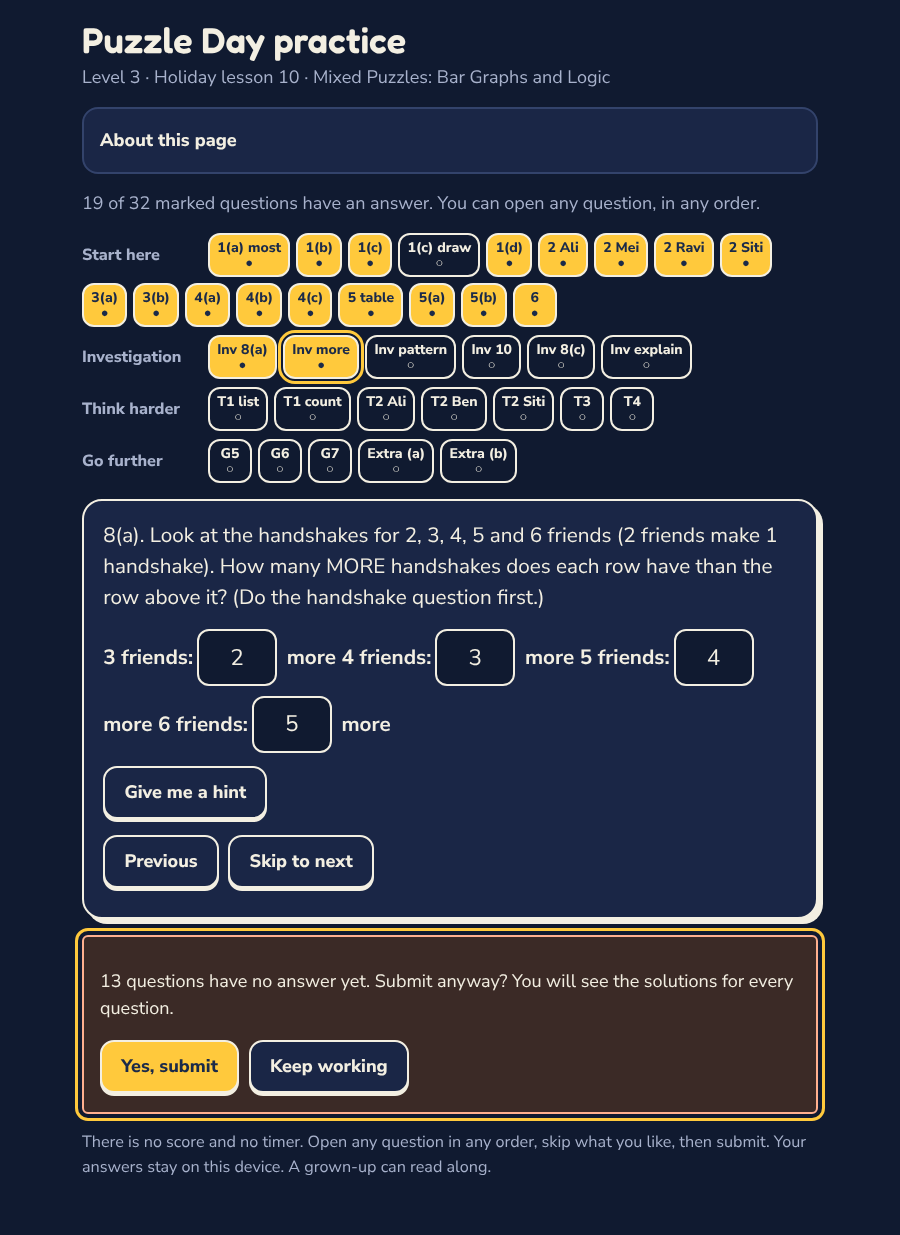
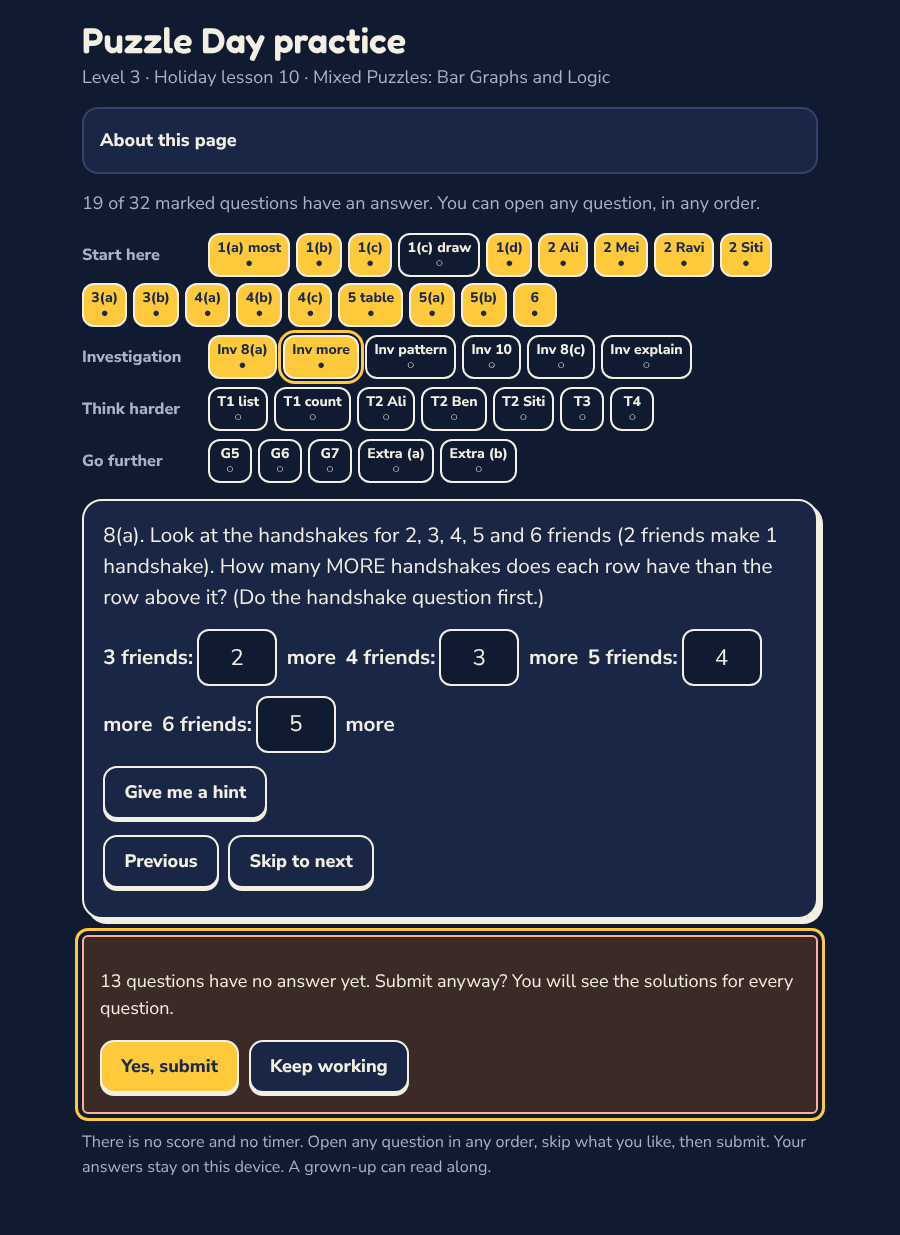
Holiday L3 week 5 (lessons 9, 10): Measure and Money Masters and Puzzle Day online practice, checkers, variants, tests, STATUS
Claude-Session: https://claude.ai/code/session_01Wmstm4fTDLXm5Z35vo5Mv2

diff --git a/practice/holiday/p3/09/lesson.py b/practice/holiday/p3/09/lesson.py
@@ -211,7 +211,7 @@ ITEMS = [
       hint='Jump from 3:45 pm to 4:00. How many minutes is that? Then jump to 5:00, then to 5:10.',
       steps=['3:45 pm to 4:00 pm is 15 minutes.', '4:00 pm to 5:00 pm is 1 hour.', '5:00 pm to 5:10 pm is 10 minutes.', '15 min + 1 h + 10 min = 1 h 25 min.'],
       src=['Ali’s swimming lesson starts at 3:45 pm and ends at 5:10 pm. How long is it?']),
-    I(id='5b', tier='core', no='5(b)', label='5(b)', type='fields', skill='time lines and end times', answer=[5, 25], frame='It ends at {f1}:{f2} pm.',
+    I(id='5b', tier='core', no='5(b)', label='5(b)', type='fields', skill='time lines and end times', answer=[5, 25], frame='Ends at {f1}:{f2} pm',
       svg=time_line(983, 1057, [(pm(4, 35), '4:35 pm', 0), (pm(5, 0), '5:00', 0), (pm(5, 25), '?', 0)], [(pm(4, 35), pm(5, 0), '? min'), (pm(5, 0), pm(5, 25), '? min')],
                     label='A time line starting at 4:35 pm with 5:00 marked and a question mark at the end of the lesson'),
       q='Mei’s piano lesson starts at 4:35 pm and lasts 50 minutes. When does it end? Type the time.',
@@ -219,7 +219,7 @@ ITEMS = [
       hint='Jump from 4:35 pm to 5:00. How many minutes is that? How many of the 50 minutes are left?',
       steps=['4:35 pm to 5:00 pm is 25 minutes.', '50 - 25 = 25 minutes are left to jump.', '5:00 pm + 25 minutes = 5:25 pm. The lesson ends at 5:25 pm.'],
       src=['Mei’s piano lesson starts at 4:35 pm and lasts 50 minutes. When does it end?']),
-    I(id='5c', tier='core', no='5(c)', label='5(c)', type='fields', skill='time lines and start times', answer=[7, 25], frame='It started at {f1}:{f2} pm.',
+    I(id='5c', tier='core', no='5(c)', label='5(c)', type='fields', skill='time lines and start times', answer=[7, 25], frame='Started at {f1}:{f2} pm',
       svg=time_line(1128, 1290, [(pm(7, 0), '7:00', 0), (pm(8, 0), '8:00', 0), (pm(9, 0), '9:00', 0), (pm(9, 15), '9:15 pm', 1)], [(pm(9, 0), pm(9, 15), '? min')],
                     label='A time line ending at 9:15 pm with 7:00, 8:00 and 9:00 marked'),
       q='A film lasts 1 h 50 min. It ends at 9:15 pm. When did it start? Type the time.',
@@ -235,7 +235,7 @@ ITEMS = [
       hint='Add 25 minutes each time. It can help to jump to the next o\u2019clock first, then add the minutes that are left.',
       steps=['06:40 + 25 minutes = 07:05 (the 2nd bus).', '07:05 + 25 = 07:30, then 07:30 + 25 = 07:55, then 07:55 + 25 = 08:20, then 08:20 + 25 = 08:45.', 'The buses are at 06:40, 07:05, 07:30, 07:55, 08:20 and 08:45.'],
       src=['Buses leave the interchange every 25 minutes. The first bus leaves at 06:40.']),
-    I(id='6a-next', tier='core', no='6(a)', label='6(a) next', type='fields', skill='time lines and timetables', answer=[8, 20], frame='The next bus is at {f1}:{f2}.',
+    I(id='6a-next', tier='core', no='6(a)', label='6(a) next', type='fields', skill='time lines and timetables', answer=[8, 20], frame='Next bus at {f1}:{f2}',
       svg=time_line(385, 540, [(BUSES[0], '06:40', 0), (RAVI, '08:15', 0)], [], minor=BUSES[1:], marks=[(RAVI, 'Ravi arrives')], label='A time line from 06:40 with a mark every 25 minutes for the buses and Ravi arriving at 08:15'),
       q='Buses leave the interchange every 25 minutes. The first bus leaves at 06:40. Ravi reaches the interchange at 08:15. When is the next bus?',
       check=lambda: [next_bus(RAVI) // 60, next_bus(RAVI) % 60],
@@ -248,7 +248,7 @@ ITEMS = [
       hint='Find the next bus time first. How many minutes is it after 08:15?',
       steps=['The next bus after 08:15 is at 08:20.', '08:15 to 08:20 is 5 minutes.', 'Ravi waits 5 minutes.'],
       src=['Ravi reaches the interchange at 08:15. When is the next bus? How long does he wait?']),
-    I(id='6b', tier='core', no='6(b)', label='6(b)', type='fields', skill='time lines and timetables', answer=[8, 55], frame='He reaches school at {f1}:{f2}.',
+    I(id='6b', tier='core', no='6(b)', label='6(b)', type='fields', skill='time lines and timetables', answer=[8, 55], frame='Reaches school at {f1}:{f2}',
       q='Ravi takes the next bus after 08:15. The bus ride to school takes 35 minutes. When does Ravi reach school? (The buses leave every 25 minutes from 06:40.)',
       check=lambda: [(next_bus(RAVI) + 35) // 60, (next_bus(RAVI) + 35) % 60],
       hint='Find the bus Ravi takes first. Then jump 35 minutes: to the next o’clock, then the minutes that are left.',
@@ -256,7 +256,7 @@ ITEMS = [
       src=['The bus ride to school takes 35 minutes. When does Ravi reach school?']),
 
     # ================= Investigation (Investigation and look back page, No.8: Find all the ways to pay)
-    I(id='I8-swap', tier='invest', no='8 easy step', label='Inv easy', type='fields', skill='making a list in order', answer=[2, 4], frame=grp('One 10-cent coin = {f1} five-cent coins      One 20-cent coin = {f2} five-cent coins'),
+    I(id='I8-swap', tier='invest', no='8 (easy step)', label='Inv easy', type='fields', skill='making a list in order', answer=[2, 4], frame='10¢ = {f1} five-cent coins      20¢ = {f2} five-cent coins',
       q='Ali can swap some five-cent coins for bigger coins. How many five-cent coins is one 10-cent coin worth? How many is one 20-cent coin worth?',
       check=lambda: [count_in(10, 5)[0], count_in(20, 5)[0]],
       hint='Count in 5s up to 10, then up to 20.',
@@ -270,7 +270,7 @@ ITEMS = [
       steps=['Go in order: first fix the number of 20-cent coins (two, then one, then none), then the number of 10-cent coins, then fill up with 5-cent coins.', 'The same coins in a different order are the same way.', 'There are 12 ways. They are shown in the table (20-cent, 10-cent, 5-cent): 2, 1, 0; 2, 0, 2; 1, 3, 0; 1, 2, 2; 1, 1, 4; 1, 0, 6; 0, 5, 0; 0, 4, 2; 0, 3, 4; 0, 2, 6; 0, 1, 8; 0, 0, 10.'],
       src=['Ali pays exactly 50 cents using only 5-cent, 10-cent and 20-cent coins. He can use as many of each coin as he likes.', 'Find all the ways. Write each way in the table (how many of each coin).']),
     I(id='I8a-sort', tier='invest', no='8(a)', label='Inv sort', type='fields', skill='making a list in order', answer=[2, 4, 6],
-      frame=grp('Two 20-cent coins: {f1} ways      One 20-cent coin: {f2} ways      No 20-cent coins: {f3} ways'),
+      frame='Two 20-cent coins: {f1} ways      One 20-cent coin: {f2} ways      No 20-cent coins: {f3} ways',
       q='Ali pays exactly 50 cents using only 5-cent, 10-cent and 20-cent coins. Sort the ways by how many 20-cent coins he uses. How many ways use two 20-cent coins? One? None? (Do the list question first.)',
       check=lambda: [len([w for w in ways_50() if w[0] == k]) for k in (2, 1, 0)],
       hint='Take two 20-cent coins first. How much is left to pay? Then try one 20-cent coin, then none.',
@@ -322,7 +322,7 @@ ITEMS = [
       hint='Change 1 kg 50 g to grams. Take the box away. Then share what is left between the 4 books.',
       steps=['1 kg 50 g = 1050 g.', 'Take the empty box away: 1050 - 250 = 800 g for the 4 books.', '800 ÷ 4 = 200, so one book weighs 200 g.'],
       src=['A box with 4 books weighs 1 kg 50 g. The empty box weighs 250 g. All the books weigh the same. How heavy is one book?']),
-    I(id='T4', tier='stretch', no='T4', label='T4', type='fields', skill='time and timetables', answer=[7, 55], frame='The bus leaves at {f1}:{f2}.',
+    I(id='T4', tier='stretch', no='T4', label='T4', type='fields', skill='time and timetables', answer=[7, 55], frame='Bus leaves at {f1}:{f2}',
       q='Buses leave the interchange every 25 minutes. The first bus leaves at 06:40. The ride to school takes 35 minutes. Ravi must reach school by 08:30. Which is the latest bus he can take? Type the time it leaves.',
       check=lambda: [latest_bus(35, mins(8, 30)) // 60, latest_bus(35, mins(8, 30)) % 60],
       hint='List the bus times, 25 minutes apart. Add 35 minutes to each one. Which is the last that gets him there by 08:30?',
@@ -442,14 +442,14 @@ VARIANTS = {
     '5b': dict(
         base=dict(sh=4, sm=35, dm=50),
         tpl=dict(vars=dict(sh=[2, 3, 4, 5], sm=[15, 20, 35, 40, 50], dm=[40, 45, 50, 55, 65, 70]),
-                 q='A piano lesson starts at {sh}:{sm} pm and lasts {dm} minutes. When does it end? Type the time.', frame='It ends at {f1}:{f2} pm.', answers=dict(f1='(sh*60+sm+dm)//60', f2='(sh*60+sm+dm)%60'),
+                 q='A piano lesson starts at {sh}:{sm} pm and lasts {dm} minutes. When does it end? Type the time.', frame='Ends at {f1}:{f2} pm', answers=dict(f1='(sh*60+sm+dm)//60', f2='(sh*60+sm+dm)%60'),
                  hint='Jump from {sh}:{sm} pm to the next o’clock. How many of the {dm} minutes are left after that?',
                  steps=['Jump to the next o’clock first.', 'Then jump the minutes that are left.', 'The lesson ends at {ans} (hours, then minutes) pm.'], paper=True),
         oracle=lambda e: _hm_fields(pm(e['sh'], e['sm']) + e['dm'] - 12 * 60)),
     '5c': dict(
         base=dict(eh=9, em=15, dh=1, dm=50),
         tpl=dict(vars=dict(eh=[8, 9, 10], em=[15, 20, 35, 40, 45], dh=[1, 2], dm=[20, 35, 50, 55]),
-                 q='A film lasts {dh} h {dm} min. It ends at {eh}:{em} pm. When did it start? Type the time.', frame='It started at {f1}:{f2} pm.', answers=dict(f1='(eh*60+em-dh*60-dm)//60', f2='(eh*60+em-dh*60-dm)%60'),
+                 q='A film lasts {dh} h {dm} min. It ends at {eh}:{em} pm. When did it start? Type the time.', frame='Started at {f1}:{f2} pm', answers=dict(f1='(eh*60+em-dh*60-dm)//60', f2='(eh*60+em-dh*60-dm)%60'),
                  hint='Jump back from {eh}:{em} pm to the o’clock. How much of the {dh} h {dm} min is still left to go back?',
                  steps=['Jump back to the o’clock first, then back the whole hours, then the minutes that are left.', 'Check by counting on from the start.', 'The film started at {ans} (hours, then minutes) pm.'], paper=True),
         oracle=lambda e: _hm_fields(pm(e['eh'], e['em']) - e['dh'] * 60 - e['dm'] - 12 * 60)),

diff --git a/practice/holiday/p3/10/lesson.py b/practice/holiday/p3/10/lesson.py
@@ -234,7 +234,7 @@ ITEMS = [
       steps=['The numbers are 258, 285, 528, 582, 825 and 852.', 'Their distances from 600 are 342, 315, 72, 18, 225 and 252.', '582 is only 18 away from 600, so it is the closest.'],
       src=['Which number is closest to 600?']),
 
-    I(id='5-table', tier='core', no='5', label='5 table', type='fields', skill='patterns and tables', answer=[13, 16, 19], frame=grp('4 squares: {f1} sticks      5 squares: {f2} sticks      6 squares: {f3} sticks'), svg=sticks_fig(),
+    I(id='5-table', tier='core', no='5', label='5 table', type='fields', skill='patterns and tables', answer=[13, 16, 19], frame='4 squares: {f1} sticks      5 squares: {f2} sticks      6 squares: {f3} sticks', svg=sticks_fig(),
       sol_fig=lambda g: sticks_fig(solved=[4, 7, 10] + list(g)),
       q='Make a table! Squares are made in a row with sticks, like the picture. Fill in the table: how many sticks are needed for 4, 5 and 6 squares?', check=lambda: [sticks_row(n) for n in (4, 5, 6)],
       hint='Look at the sticks for 1, 2 and 3 squares. How many more sticks does each new square need?',
@@ -266,7 +266,7 @@ ITEMS = [
       steps=['Draw a dot for each friend and join every pair with a line: each line is a handshake.', '3 friends: 3 lines. 4 friends: 6 lines. 5 friends: 10 lines. 6 friends: 15 lines.', 'The numbers are 3, 6, 10 and 15.'],
       src=['Some friends meet. Everyone shakes hands with every other friend once. Two friends make 1 handshake.', 'Find the number of handshakes for 3, 4, 5 and 6 friends.']),
     I(id='I8a-more', tier='invest', no='8(a)', label='Inv more', type='fields', skill='patterns and tables', answer=[2, 3, 4, 5],
-      frame=grp('3 friends: {f1} more      4 friends: {f2} more      5 friends: {f3} more      6 friends: {f4} more'),
+      frame='3 friends: {f1} more      4 friends: {f2} more      5 friends: {f3} more      6 friends: {f4} more',
       q='Look at the handshakes for 2, 3, 4, 5 and 6 friends (2 friends make 1 handshake). How many MORE handshakes does each row have than the row above it? (Do the handshake question first.)',
       check=lambda: [friends_more(n) for n in (3, 4, 5, 6)],
       hint='Subtract each number of handshakes from the one below it.',

diff --git a/practice/holiday/p3/p3lib_w5.py b/practice/holiday/p3/p3lib_w5.py
@@ -281,7 +281,8 @@ def price_list_fig(items, label='Prices'):
     for i, (name, price) in enumerate(items):
         y = i * rh + 4
         pic = pics.get(name, '')
-        pic = re.sub(r'<svg[^>]*>', f'<svg x="8" y="{y + 3}" viewBox="0 0 48 48" width="32" height="32">', pic, count=1)
+        inner = re.sub(r'^<svg[^>]*>|</svg>$', '', pic.strip())          # the picture's shapes, drawn in a 48 x 48 box; a <g> (not a nested <svg>, which the page's CSS would resize)
+        pic = f'<g transform="translate(8 {y + 3}) scale({32 / 48:.4f})">{inner}</g>'
         body += pic + h.T(54, y + 26, name, 16, 'start', 800) + h.T(292, y + 26, price, 17, 'end', 800)
         body += h.Ln(4, y + rh - 3, 296, y + rh - 3, 1.2, '#C9D0E2')
     return h.svg(300, len(items) * rh + 6, body, label + ': ' + '; '.join(f'{n} {p}' for n, p in items))

diff --git a/practice/holiday/p3/STATUS.md b/practice/holiday/p3/STATUS.md
@@ -182,3 +182,41 @@ No stem, hint, example or figure shows another card's answer (Q5 hint of the pri
 1. Lesson 7 Q6 and Lesson 8 Q5 are drawing tasks on paper in print. Online they use lettered places / numbered lines (auto-marked); the real drawing stays paper-only. Fine?
 2. Same as earlier weeks: should the Investigation and Extra question be visible by default or behind "Want more?"
 3. Lesson 8 uses a paper right-angle checker against the phone screen. Acceptable, or add an on-screen checker later?
+
+
+# Level 3 (ages 8 to 10, key p3): online practice for holiday WEEK 5 (lessons 9 and 10)
+
+Week 5 = lessons 9 and 10, the last two lessons of the programme (`website/data/beta_schedule.json`: group L3A, Tue 22 Dec and Thu 24 Dec 2026, lessons n=9 and n=10, 25 Dec is a no-lesson day; `p3/content/l9.js` and `l10.js` also say `week: 5`, session A and B). Built and tested, NOT deployed; no website/dist, Supabase or sending. Shared files (sheet.js, submit/*, build_holiday.py, hlib.py, test_holiday.py) and earlier lessons were not edited; `practice/ext/test_ext.py` and the `practice/submit` tests still pass. Lesson 10 is the showcase lesson ("Puzzle Day"): it is mirrored as printed (bar graph, CCA logic grid, queues, digit cards, matchstick squares, a number riddle, handshakes); its paper tasks are self-check or open cards with a model answer.
+
+Build and test:
+
+    python3 practice/holiday/build_holiday.py p3 9      # -> practice/holiday/p3/09/dist   (git-ignored)
+    python3 practice/holiday/test_holiday.py p3 9       # Chromium, 390 and 900 px, light and dark; proofs in p3/09/proof
+    (same with 10)
+
+## Where the questions come from
+Same as weeks 1 to 4: `p3/workbook_html.js` builds the workbook from `p3/content/l9.js` and `l10.js` (Start here = `workbook(H)`, Think harder 1 to 4 = `qbank.stretch[0..3]`, Go further 5 to 7 = `qbank.challenge[-3:]`, Extra = `deck.takeHome`) and `p3/gifted.json` (Investigation). Items are in `p3/09/lesson.py` and `p3/10/lesson.py`; `build_holiday.py` fails unless every printed fragment occurs in those sources. Figures: `figs_p3_w5.js` prints the workbook's own figures (ribbon, 24-hour strip, time lines, bus line, bar models, queues, drinks graph, matchstick squares, digit cards, the five item pictures) from the generator functions; `p3lib_w5.py` redraws them larger for a 390 px phone (every text at least 12.5 px; no rotated text, no nested svg) and the lesson files assert that their data (the ribbon pieces, strip hours, time-line ticks, bus line, bar-model labels, queue positions, the four drinks bars at 4 px per cup, digit cards, the printed sticks table, the five prices, the printed clues) equals the printed figures. Pictures drawn that the print has none for: the Think harder 3 triangles in a row, the shared clue cards (see below).
+
+## Counts (every item has a hint, a worked solution, tags strand and skill)
+| Lesson | Items | Auto-marked | Self-check | Paper-only drawing | Types | Variant families (all combinations equal the oracle) |
+|---|---|---|---|---|---|---|
+| 9 Measure and Money Masters (length, mass, volume, money, time) | 42 | 37 | 5 (4 compare with a model answer, 1 make-up G7 open) | 0 | fields 16, number 12, text 7, selfcheck 5, choice 2 | 16 (832) |
+| 10 Puzzle Day (mixed puzzles: bar graphs and logic) | 36 | 32 | 4 (2 explain, 1 paper drawing of the Lime juice bar, 1 make-up G5 open) | 1 | number 14, choice 9, fields 5, set 3, selfcheck 4, text 1 | 8 (124) |
+
+Checkers: every answer is recomputed, not copied. Lesson 9: changing units by adding and taking away (cm, g, ml); bags ordered by grams; every set of 3 things from the price list (the best set under $20 is unique: book, pen set, puzzle, $19.35, change 65 cents; the next best is $17.95); 12-hour to 24-hour conversions; every time sum and difference in minutes since midnight (swimming, piano, film, shop hours); the six buses listed 25 minutes apart (next bus after 08:15, latest bus to arrive by 08:30); cups counted by taking 300 ml away one at a time; the box, bottle and pens-and-files puzzles by search; every way of paying 50 cents tried one coin at a time (12 ways, equal to the printed list in `gifted.json`, fewest 3 coins, most 10 coins). Lesson 10: Lime juice from the 200 total and the four bars; every pair of drinks for 100; every way to give four CCAs (one fits the clues) and every way to give three pets (one fits); queues built child by child; every number made from the digit cards (6 numbers, 2 odd, 582 closest to 600); sticks counted from the squares and triangles (3n + 1, 2n + 1); every number that fits the riddle (213, 321, 411); every amount from three coins (7); every 4-digit number from 3, 0, 6, 9; the class papers by trying every kg for 3P2; handshakes counted pair by pair (none equals 20 for any group size up to 199).
+
+## Not mirrored one to one, and why
+- Lesson 9 Q1 is six cards (a to f; (f) shows the ribbon picture). Q2(a) puts letters on the four bags (C, D, B, A, "lightest first"); the printed "write the masses in order" would need typed masses in three different units. 2(b) "Explain Ben's mistake" is a self-check card (neutral wording) plus an auto-marked card "how many grams is 1 kg 30 g". Q3: yes/no and the total for (a); the three names and the change for (b) (names accepted in any order, "pen set"/"pens"). Q4 table: four cards (7:15 am, 3:40 pm, 20:05, 12:30 pm); 24-hour answers are typed in two boxes (hours : minutes). The printed strip is drawn as two rows (am, pm) so the labels fit a phone. (b) yes/no plus an explain self-check. Q5 (a), (b), (c): hours-and-minutes boxes and "hours : minutes pm" boxes (so the variants can be checked); Q6: the printed table of buses is one text card (2nd to 6th bus), then next bus, wait and arrival at school. The printed "(if time)" labels are dropped.
+- Lesson 9 Investigation: the easy step is a card on swapping 5-cent coins (it does not show a way); the list of ways is a self-check card (the table of all 12 ways is shown after Submit) with auto-marked companions (ways by number of 20-cent coins, total, the fewest-coin way, the most-coin way) and an explain self-check. Not items: the "Look back" tick boxes, the tool-of-the-day boxes.
+- Lesson 10 Q1: the graph card (Lime juice missing), most, difference, Lime juice, the Lime juice bar on paper (paper-only self-check, the drawn bar is shown after Submit), the two drinks that make 100. Q2 CCA grid: the tick-and-cross grid itself is a paper tool and is not an item; the clues are one shared picture card and the four children are four choice cards (Ali, Mei, Ravi, Siti). Q3: two queue cards with the printed pictures (the printed picture of 3(a) already shows both counts, as printed). Q4: the list (ordered), the odd count and the closest to 600. Q5: the table of 4, 5 and 6 squares, 8 squares, and 31 sticks. Q6 riddle: unordered list, printed hint kept.
+- Lesson 10 Investigation: handshakes for 3 to 6 friends, how many more each row has, the pattern (explain self-check), 10 friends, "could it be 20?" (yes/no) and why (explain). The printed "easy first step" (draw 3 dots, count the lines, then 4 dots) is the hint of the first card because as a card it would be the answer of the first box. Think harder 1 is a list card plus a count card ("Do the list question first"); Think harder 2 is one shared clue picture and three pet cards; Go further 5 (make up a logic puzzle) is open and the model puzzle is verified (unique answer, and the fourth clue can be dropped). Go further 6 and 7 have no printed picture (the print says "a bar graph shows..." without drawing it), so none is drawn.
+- Variants only where an arithmetic template with an oracle exists (no variants for text, set or choice items): L9 1(a) to 1(f), 4(a) am and pm conversion, 5(a) to 5(c), Think harder 1 to 3, Go further 5, Extra (a); L10 queues 3(a) and 3(b), odd numbers from other cards, sticks 5(a) and 5(b), Think harder 3, both Extra questions.
+
+## Audit rules applied from the start
+Weeks 1 to 4 audits read. No stem, hint, example or figure shows another card's answer (the CCA and pet cards share one clue picture and say only "Use the clues"; the explain cards for 17:00 and for 20 handshakes are neutral; the easy step is not a card; the bus-table hint does not give the 2nd bus; the swap card does not show a way); hints nudge and state no one-case rule (the 12:30 pm solution says to add 12 only from 1 pm; "every other set that fits in $20 costs less"); the count cards say "Do the list question first"; money accepted as $1.60, 1.60, 160 cents (and the cents answer also as $0.65); times with a space before pm, "8.05 pm", "p.m"; letter lists in any separator; no "(if time)", "cross out" or "take-home" wording in cards; explicit short unique labels (at most 12 characters, number first, no digit-letter-digit); reading load kept to about 45 words or fewer per card; make-up and explain cards have marking_mode set; no coin or note pictures (the five item pictures are the workbook's own small icons).
+
+## Open questions for the owner
+1. Lesson 10 Q2 (CCA logic grid) and the Lime juice bar: the grid is a paper tool, so online it is four choice cards (auto-marked) with the clues shown once. Is that acceptable, or should an on-screen tick/cross grid be added later (shared runner change)?
+2. Times of day are typed in two boxes ("hours : minutes"); a child who types "5:25" into the first box is marked wrong. Fine for ages 8 to 10, or should the runner learn to read "5:25" in one box?
+3. Lesson 9 Q4 conversion cards say "Write ... in 24-hour time" and the printed hint "after 12 noon add 12" is only said for pm times after 1 pm (12:30 pm stays 12:30). Fine?
+4. Same as earlier weeks: should the Investigation and Extra questions be visible by default, and do the Lesson 10 certificate and the "Look back" page need an online counterpart?
